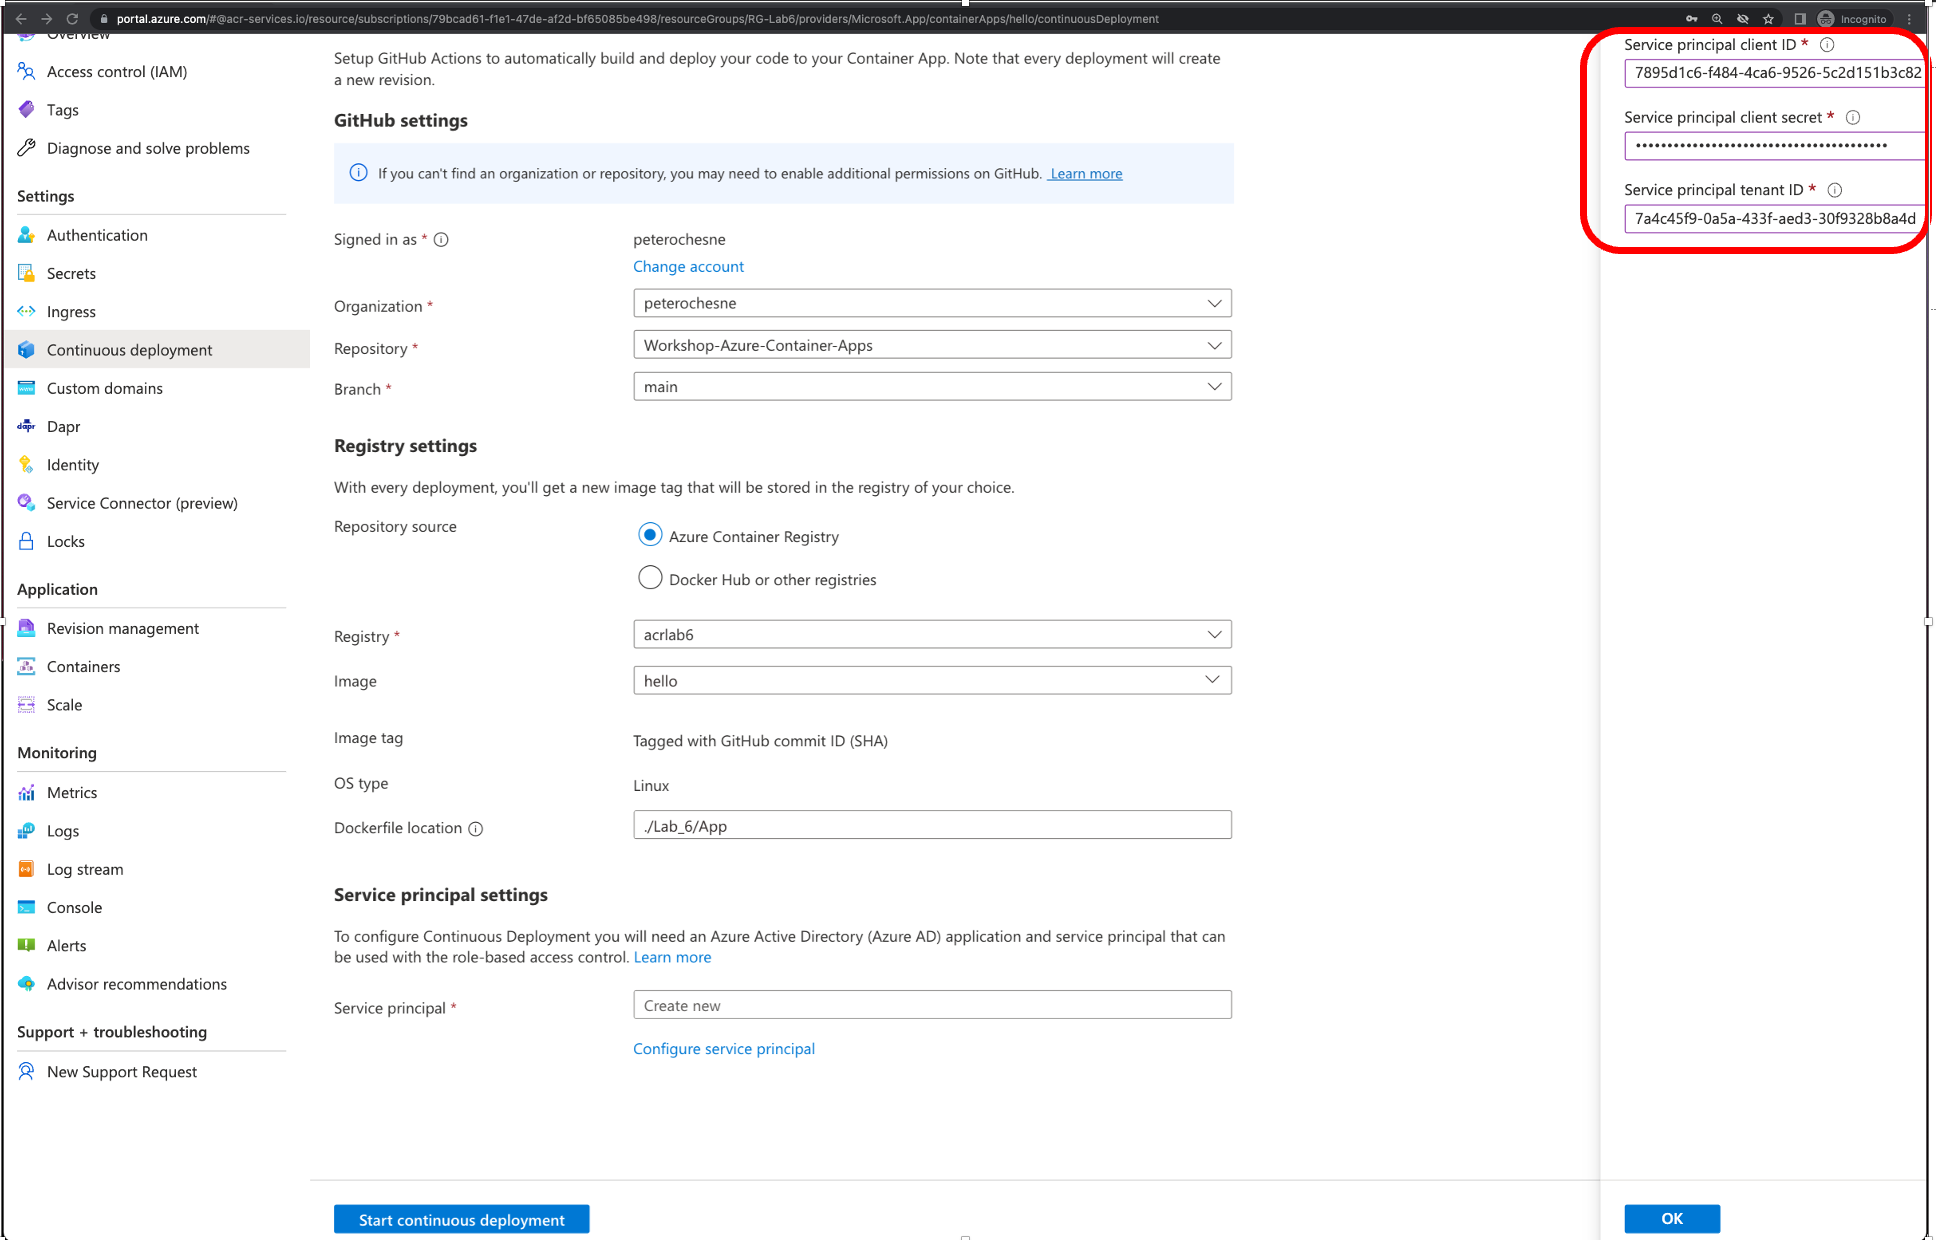
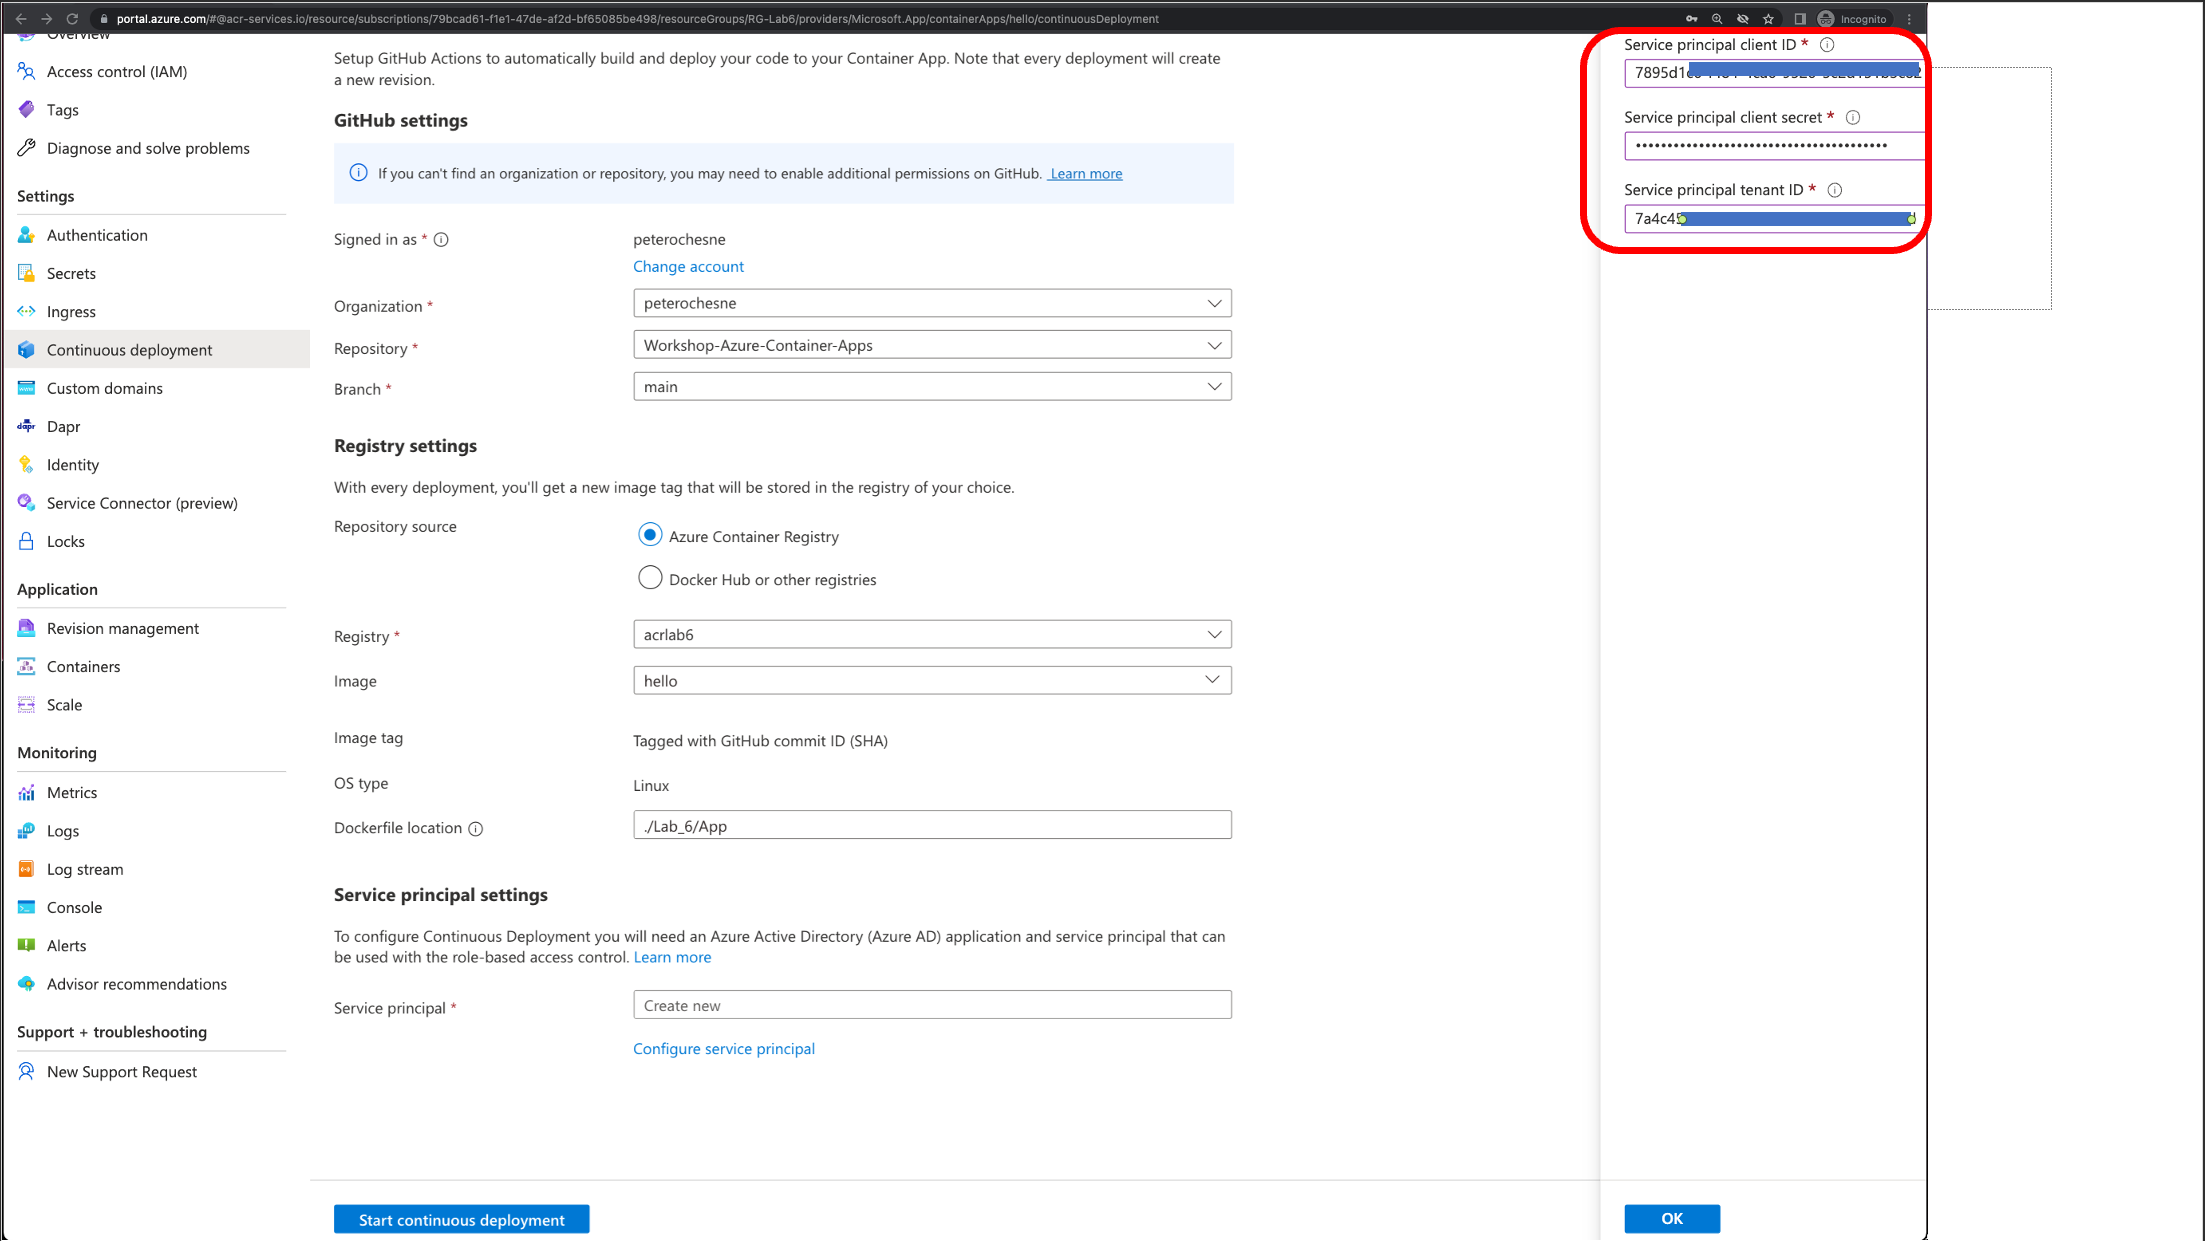
README.md Lab 6

diff --git a/Lab_6/README.md b/Lab_6/README.md
@@ -83,6 +83,11 @@ Nous avons ici notre premiere version<br><br>
 <img width='800' src='../images/Lab_6/Lab_6_04.png'/><br>
 Au niveau de cet assistant, on donne les droits nécessaires au service "Azure Container Apps" dans votre Compte ou Organisation GitHub<br><br> 
 <img width='800' src='../images/Lab_6/Lab_6_05.png'/><br>
+Au niveau de cet assistant, on renseigne:<br>
+- ID du SPN (créé lors du Lab 3)
+- le secret du SPN
+- ID de votre tenant
+
 <img width='800' src='../images/Lab_6/Lab_6_06.png'/><br>
 <img width='800' src='../images/Lab_6/Lab_6_06.png'/><br>
 <img width='800' src='../images/Lab_6/Lab_6_07.png'/><br>
